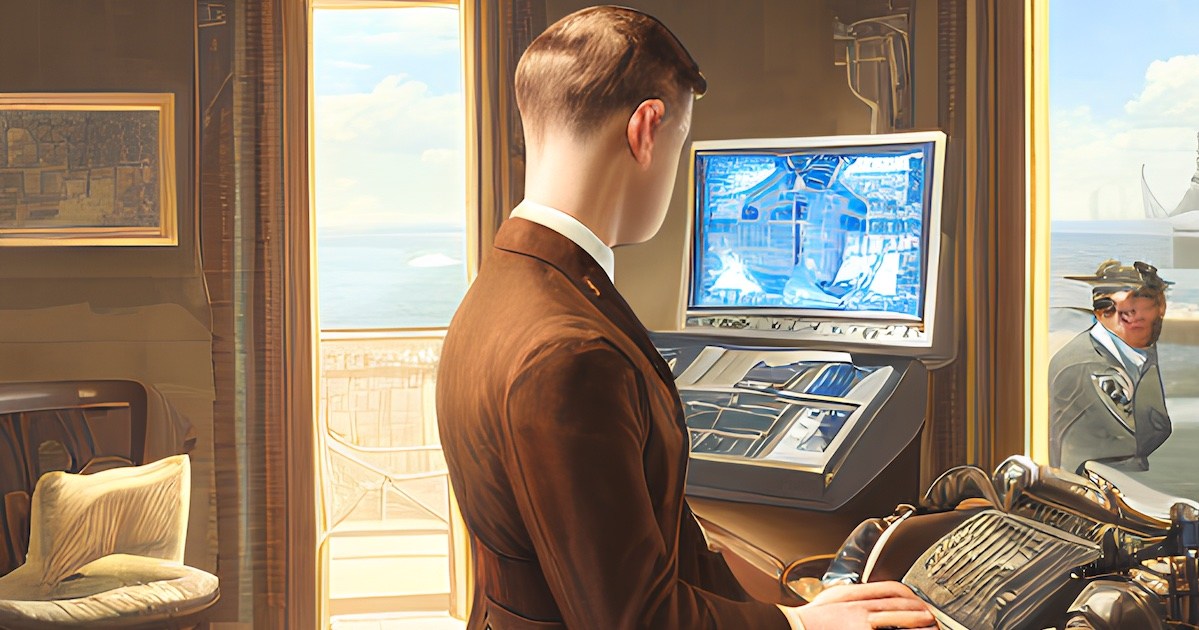
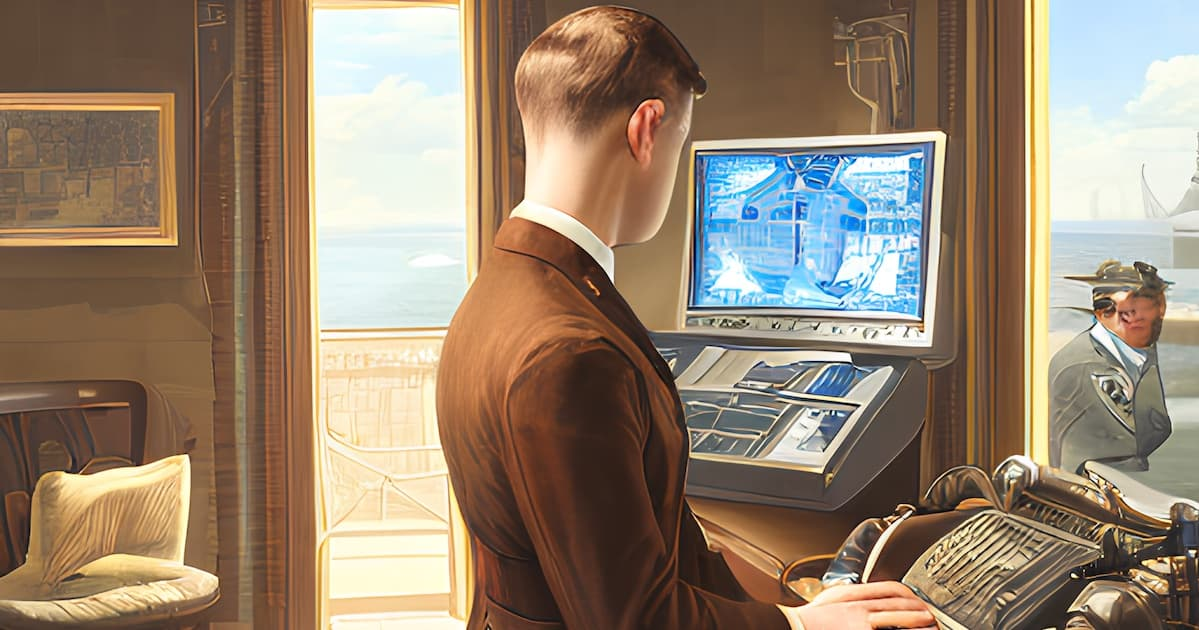
opt images

diff --git a/src/content/blog/2023-02-should-i-learn-how-to-code.md b/src/content/blog/2023-02-should-i-learn-how-to-code.md
@@ -2,7 +2,7 @@
 title: 'Should You Learn How to Code?'
 blogSlug: '2023-02-should-i-learn-how-to-code'
 publishDate: '24 Feb 2023'
-heroImage: "/blog-imgs/2023-02-should-i-learn-how-to-code.webp"
+heroImage: "/blog-imgs/2023-02-should-i-learn-how-to-code.jpg"
 ogImage: "/blog-imgs/2023-02-should-i-learn-how-to-code.jpg"
 description: "Learning to code can lead to high-paying jobs and be a fun hobby, but it comes with challenges. It's important to weigh the pros and cons carefully before diving in"
 featured: true
